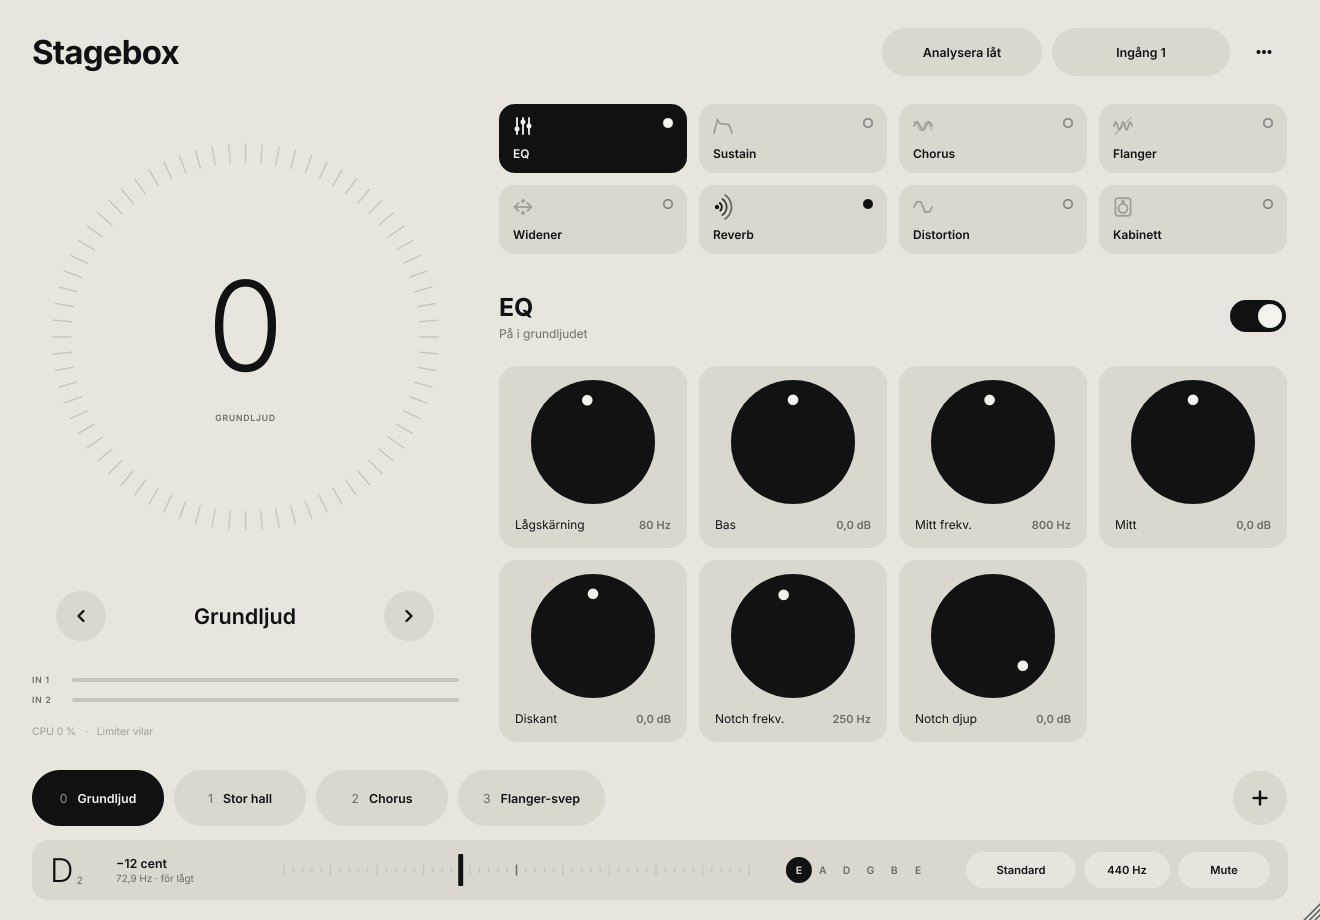
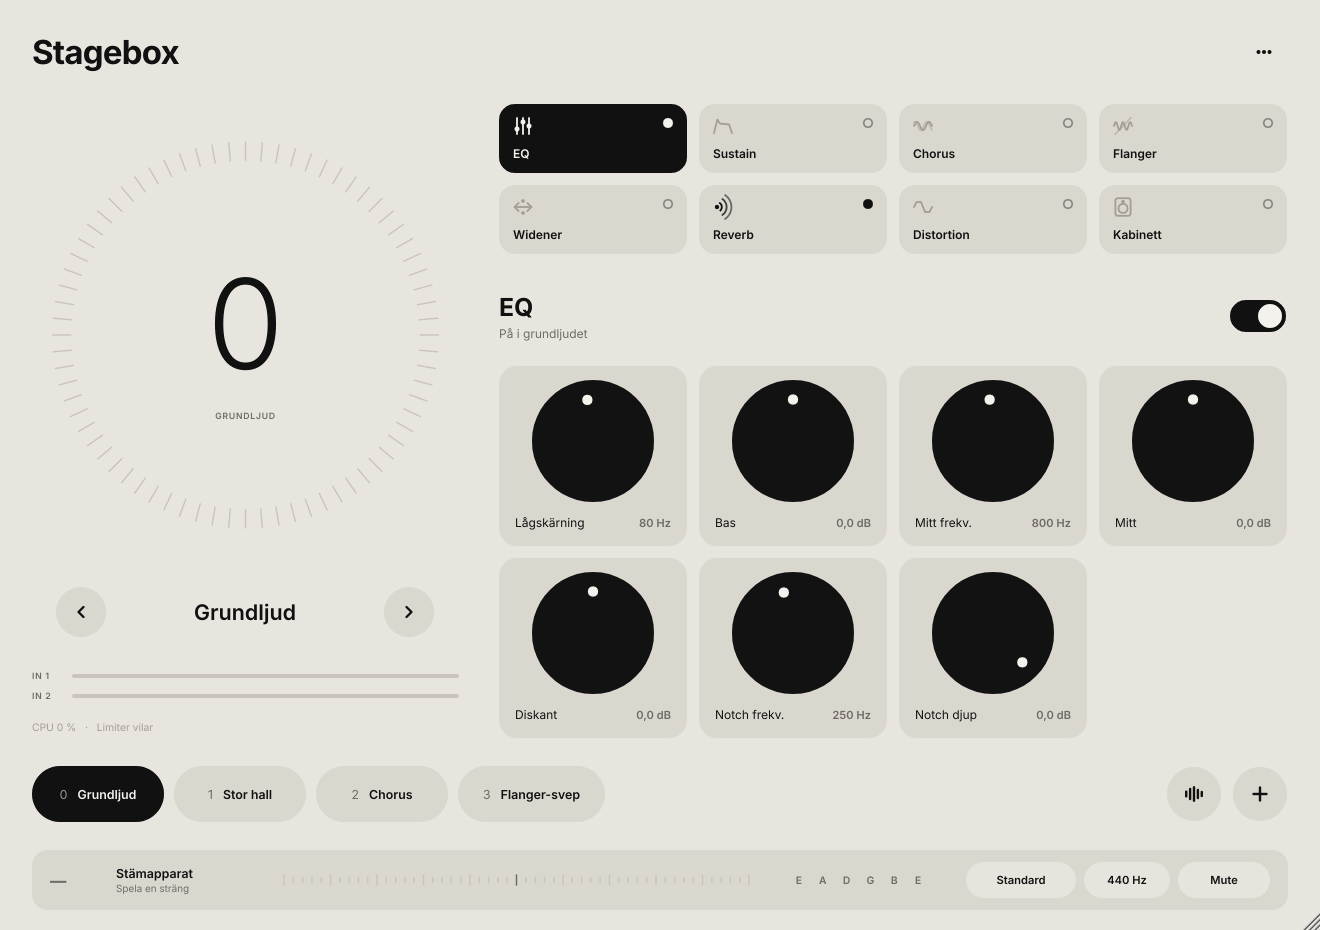
Renare sidhuvud, låtanalys vid presets, luft ovanför stämfältet
- Sidhuvudet har bara rubriken och ⋯; ingång/utgång öppnas från menyn
- Låtanalys som ikon (ljudvåg) bredvid + vid presetpillren
- Mer luft ovanför stämapparaten
- IconButton: aktivt läge inverteras rätt i både ljust och mörkt läge

Claude-Session: https://claude.ai/code/session_01F5Ae8EKEU8jTgmizjMdj4W

diff --git a/app/Source/PluginEditor.cpp b/app/Source/PluginEditor.cpp
@@ -14,13 +14,8 @@ GuitarFXEditor::GuitarFXEditor(GuitarFXProcessor& p)
     // Menyer, dialoger och popovers ritas i egna fönster – ge dem samma tema.
     juce::LookAndFeel::setDefaultLookAndFeel(&lnf_);
 
-    header_.input.onClick = [this] {
-        auto panel = std::make_unique<ui::InputPanel>(processor_);
-        // Inuti fönstret (parent = this) så att panelen ärver temat.
-        juce::CallOutBox::launchAsynchronously(std::move(panel), getLocalArea(&header_, header_.input.getBounds()), this);
-    };
     header_.more.onClick = [this] { showMoreMenu(); };
-    header_.analyse.onClick = [this] { setAnalysisOpen(!analysisView_.isOpen()); };
+    presets_.analyse.onClick = [this] { setAnalysisOpen(!analysisView_.isOpen()); };
     analysisView_.onClose = [this] { setAnalysisOpen(false); };
 
     for (juce::Component* c : std::initializer_list<juce::Component*> { &header_, &tuner_, &stage_, &grid_, &panel_, &presets_ })
@@ -29,8 +24,8 @@ GuitarFXEditor::GuitarFXEditor(GuitarFXProcessor& p)
 
     setWantsKeyboardFocus(true);
     setResizable(true, true);
-    setResizeLimits(1040, 780, 2600, 1800);
-    setSize(1320, 920);
+    setResizeLimits(1040, 790, 2600, 1800);
+    setSize(1320, 930);
     startTimerHz(30);
 }
 
@@ -75,9 +70,6 @@ void GuitarFXEditor::timerCallback() {
     panel_.refresh();
     presets_.refresh();
 
-    const int mode = e.input().mode.load();
-    header_.setSourceText(mode == 2 ? S("Blanda 1 + 2") : mode == 1 ? S("Ingång 2") : S("Ingång 1"));
-
     // Watchdog: har ljudmotorn levererat nya block sedan förra kollen?
     const auto blocks = e.processedBlocks();
     const int before = stalledTicks_;
@@ -91,7 +83,7 @@ void GuitarFXEditor::timerCallback() {
 void GuitarFXEditor::setAnalysisOpen(bool open) {
     analysisView_.setOpen(open);
     if (open) analysisView_.toFront(false);
-    header_.analyse.setToggleState(open, juce::dontSendNotification);
+    presets_.analyse.setToggleState(open, juce::dontSendNotification);
 }
 
 
@@ -119,7 +111,7 @@ void GuitarFXEditor::resized() {
     r.removeFromTop(24);
     r.removeFromBottom(20);
     tuner_.setBounds(r.removeFromBottom(60));      // stämapparaten längst ned
-    r.removeFromBottom(14);
+    r.removeFromBottom(28);                        // luft ovanför stämapparaten
     presets_.setBounds(r.removeFromBottom(56));
     r.removeFromBottom(28);
     stage_.setBounds(r.removeFromLeft(juce::jlimit(340, 520, r.getWidth() * 34 / 100)));
@@ -150,9 +142,17 @@ bool GuitarFXEditor::keyPressed(const juce::KeyPress& k) {
     return false;
 }
 
+void GuitarFXEditor::showInputPanel() {
+    auto panel = std::make_unique<ui::InputPanel>(processor_);
+    // Inuti fönstret (parent = this) så att panelen ärver temat.
+    juce::CallOutBox::launchAsynchronously(std::move(panel), getLocalArea(&header_, header_.more.getBounds()), this);
+}
+
 void GuitarFXEditor::showMoreMenu() {
     juce::PopupMenu m;
     const bool standalone = juce::JUCEApplicationBase::isStandaloneApp();
+    const int mode = processor_.engine().input().mode.load();
+    m.addItem(6, S("Ingång och utgång…   ") + (mode == 2 ? S("Blanda 1 + 2") : mode == 1 ? S("Ingång 2") : S("Ingång 1")));
     if (standalone) m.addItem(1, S("Ljudinställningar…"));
     m.addItem(2, S("Mät latens…"));
     m.addItem(5, S("Analysera låt…"));
@@ -180,6 +180,7 @@ void GuitarFXEditor::showMoreMenu() {
         if (r == 3) safe->exportPresets();
         if (r == 4) safe->importPresets();
         if (r == 5) safe->setAnalysisOpen(true);
+        if (r == 6) safe->showInputPanel();
         if (r >= 20 && r <= 22) { safe->processor_.appearance.store(r - 20); safe->applyAppearance(true); }
     });
 }

diff --git a/app/Source/ui/Widgets.cpp b/app/Source/ui/Widgets.cpp
@@ -39,10 +39,14 @@ void IconButton::paintButton(juce::Graphics& g, bool over, bool down) {
     const float d = juce::jmin(r.getWidth(), r.getHeight()) - 2.0f;
     auto circle = r.withSizeKeepingCentre(d, d);
     if (filled_ || over || down) {
-        g.setColour(down ? p.tileStrong : (filled_ ? (over ? p.tileStrong : p.tile) : p.tile));
+        g.setColour(getToggleState() ? p.ink : down ? p.tileStrong : (filled_ ? (over ? p.tileStrong : p.tile) : p.tile));
+        g.fillEllipse(circle);
+    } else if (getToggleState()) {
+        g.setColour(p.ink);
         g.fillEllipse(circle);
     }
-    icons::draw(g, symbol_, circle.reduced(d * 0.3f), isEnabled() ? p.ink : p.tertiaryInk, juce::jmax(1.6f, d * 0.045f));
+    const auto ink = !isEnabled() ? p.tertiaryInk : getToggleState() ? p.inkInverse : p.ink;
+    icons::draw(g, symbol_, circle.reduced(d * 0.3f), ink, juce::jmax(1.6f, d * 0.045f));
 }
 
 // ---------------------------------------------------------------------------
@@ -475,6 +479,7 @@ PresetBar::PresetBar(GuitarFXProcessor& proc) : proc_(proc) {
         rename(i);
     };
     addAndMakeVisible(add_);
+    addAndMakeVisible(analyse);
     refresh();
 }
 
@@ -518,6 +523,8 @@ void PresetBar::paint(juce::Graphics&) {}
 void PresetBar::resized() {
     auto r = getLocalBounds();
     add_.setBounds(r.removeFromRight(r.getHeight()));
+    r.removeFromRight(10);
+    analyse.setBounds(r.removeFromRight(r.getHeight()));
     r.removeFromRight(12);
     if (pills_.empty()) return;
     const auto f = font(15.0f, Weight::SemiBold);
@@ -1162,15 +1169,7 @@ void AnalysisView::resized() {
 // HeaderBar
 // ---------------------------------------------------------------------------
 HeaderBar::HeaderBar() {
-    input.setTooltip(S("Ingång, utgång och nivåer"));
-    analyse.setTooltip(S("Analysera en låt och skapa ett preset"));
-    addAndMakeVisible(analyse);
-    addAndMakeVisible(input);
     addAndMakeVisible(more);
-}
-
-void HeaderBar::setSourceText(const juce::String& sourceText) {
-    if (input.getButtonText() != sourceText) input.setButtonText(sourceText);
 }
 
 void HeaderBar::paint(juce::Graphics& g) {
@@ -1181,12 +1180,7 @@ void HeaderBar::paint(juce::Graphics& g) {
 }
 
 void HeaderBar::resized() {
-    auto r = getLocalBounds();
-    more.setBounds(r.removeFromRight(48).withSizeKeepingCentre(48, 48));
-    r.removeFromRight(10);
-    input.setBounds(r.removeFromRight(178).withSizeKeepingCentre(178, 48));
-    r.removeFromRight(10);
-    analyse.setBounds(r.removeFromRight(160).withSizeKeepingCentre(160, 48));
+    more.setBounds(getLocalBounds().removeFromRight(48).withSizeKeepingCentre(48, 48));
 }
 
 } // namespace ui

diff --git a/app/Source/ui/Widgets.h b/app/Source/ui/Widgets.h
@@ -143,6 +143,9 @@ private:
     GuitarFXProcessor& proc_;
     std::vector<std::unique_ptr<Pill>> pills_;   // 0 = grundljud
     IconButton add_ { icons::Symbol::Plus, "Nytt preset" };
+public:
+    IconButton analyse { icons::Symbol::Waveform, juce::String::fromUTF8("Analysera en låt och skapa ett preset") };
+private:
     uint64_t lastRevision_ = ~0ull;
     size_t lastCount_ = ~size_t(0);
     juce::uint32 downTime_ = 0;
@@ -231,16 +234,13 @@ private:
     juce::Rectangle<int> body_;
 };
 
-// Sidhuvud: appens namn, låtanalys, ingångspiller och meny.
+// Sidhuvud: appens namn och menyn (alla inställningar finns under ⋯).
 class HeaderBar final : public juce::Component {
 public:
     HeaderBar();
-    void setSourceText(const juce::String& sourceText);
     void paint(juce::Graphics&) override;
     void resized() override;
-    Pill input { juce::String::fromUTF8("Ingång 1"), false };
-    Pill analyse { juce::String::fromUTF8("Analysera låt"), false };
-    IconButton more { icons::Symbol::More, "Fler val", false };
+    IconButton more { icons::Symbol::More, juce::String::fromUTF8("Inställningar"), false };
 };
 
 } // namespace ui

diff --git a/app/Source/PluginEditor.h b/app/Source/PluginEditor.h
@@ -1,10 +1,10 @@
 #pragma once
 // Stagebox – scen-GUI, monokromt:
-//   sidhuvud  – appens namn, låtanalys, ingång/utgång (popover), meny
+//   sidhuvud  – appens namn och ⋯ (alla inställningar: ingång/utgång, ljud, latens, …)
 //   stämfält  – lågt fält längst ned, alltid synligt (Mute = T)
 //   vänster   – ring av streck (utnivå) runt aktivt presetnummer, namn, bläddring, mätare
 //   höger     – effekterna som rutor + vald effekt med runda rattar
-//   nederst   – presets som piller (ett i taget, igen = grundljud)
+//   nederst   – presets som piller + låtanalys och nytt preset (ett i taget, igen = grundljud)
 // Tangenter: 1–9 = preset, 0/Esc = grundljud, ←/→ = föregående/nästa, T = Mute (stämning).
 
 #include <juce_audio_processors/juce_audio_processors.h>
@@ -27,6 +27,7 @@ private:
     void timerCallback() override;
     void applyAppearance(bool force);
     void showMoreMenu();
+    void showInputPanel();
     void setAnalysisOpen(bool open);
     void startLatencyMeasurement();
     void exportPresets();

diff --git a/app/Source/ui/Icons.cpp b/app/Source/ui/Icons.cpp
@@ -124,6 +124,16 @@ void draw(juce::Graphics& g, Symbol s, juce::Rectangle<float> r, juce::Colour c,
             }
             break;
         }
+        case Symbol::Waveform: {
+            // Ljudvåg (staplar av olika höjd) – för låtanalys.
+            const float h[5] = { 0.35f, 0.75f, 1.0f, 0.6f, 0.3f };
+            for (int i = 0; i < 5; ++i) {
+                const float x = ctr.x + (static_cast<float>(i) - 2.0f) * k * 0.36f;
+                p.startNewSubPath(x, ctr.y - h[i] * k * 0.62f);
+                p.lineTo(x, ctr.y + h[i] * k * 0.62f);
+            }
+            break;
+        }
         case Symbol::Speaker:
             p.startNewSubPath(ctr.x - k * 0.6f, ctr.y - k * 0.2f); p.lineTo(ctr.x - k * 0.3f, ctr.y - k * 0.2f);
             p.lineTo(ctr.x + k * 0.05f, ctr.y - k * 0.55f); p.lineTo(ctr.x + k * 0.05f, ctr.y + k * 0.55f);

diff --git a/app/Source/ui/Icons.h b/app/Source/ui/Icons.h
@@ -8,7 +8,7 @@ namespace ui::icons {
 
 void drawEffect(juce::Graphics& g, const std::string& effectId, juce::Rectangle<float> r, juce::Colour c);
 
-enum class Symbol { Sliders, More, Plus, Prev, Next, ChevronDown, ChevronUp, Check, Speaker };
+enum class Symbol { Sliders, More, Plus, Prev, Next, ChevronDown, ChevronUp, Check, Speaker, Waveform };
 void draw(juce::Graphics& g, Symbol s, juce::Rectangle<float> r, juce::Colour c, float strokeWidth = 1.8f);
 
 } // namespace ui::icons

diff --git a/README.md b/README.md
@@ -128,7 +128,7 @@ byggs i stället ett litet ALSA/JACK-värdprogram runt `gfx::Engine`.
 | Mikrofon mot gitarren | 1 (XLR) | INST av, 48V på om kondensatormikrofon |
 | Gitarrens inbyggda mikrofon | 2 (teleplugg) | INST på (passiv mikrofon) |
 
-Välj **Källa** i panelen INGÅNG:
+Öppna **⋯ → Ingång och utgång…** och välj **Källa**:
 - **Ingång 1** eller **Ingång 2** – bara en av dem.
 - **Blanda 1 + 2** – båda. Den inbyggda ger stabilitet mot rundgång, mikrofonen ger luft.
   1. Ställ gain på Scarletten så att IN 1 och IN 2 ligger ungefär lika (gult vid hårt anslag).
@@ -171,7 +171,9 @@ längst ned och ställ in EQ och de effekter som alltid ska vara på (t.ex. ett 
 - Reglaget till höger om effektens namn slår på/av den.
 - Vänster spalt visar aktivt preset (stort nummer och namn), utnivån som en ring av streck
   och ← / → för att bläddra.
-- **Ingång 1** uppe till höger öppnar ingång, utgång och nivåer.
+- Alla inställningar finns under **⋯** uppe till höger: ingång och utgång, ljudinställningar,
+  latensmätning, export/import av presets och utseende.
+- Ikonen med ljudvågen bredvid **+** längst ned öppnar låtanalysen.
 
 **Ett preset** är en eller flera effekter med egna inställningar:
 1. Tryck **+** längst ned till höger och ge presetet ett namn.
@@ -205,7 +207,7 @@ Senast mottagna MIDI visas längst ned till höger.
 
 ## Låtanalys
 
-Tryck **Analysera låt** (eller ⋯ → Analysera låt…) och välj en ljudfil. Analysen tar
+Tryck på ikonen med ljudvågen bredvid **+** längst ned (eller ⋯ → Analysera låt…) och välj en ljudfil. Analysen tar
 någon sekund och sker helt lokalt – inget laddas upp och ingen modell laddas ner.
 
 | Område | Vad som mäts | Blir i presetet |
